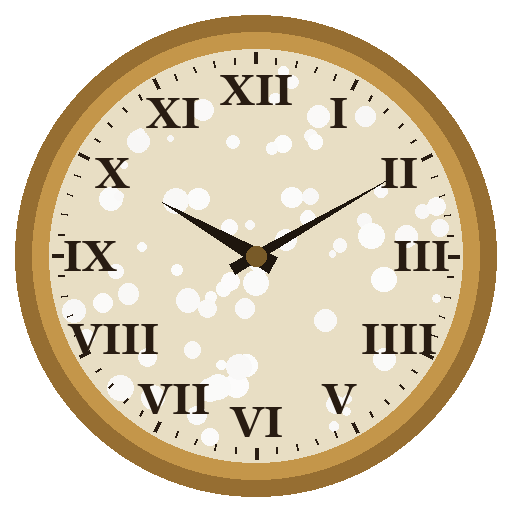
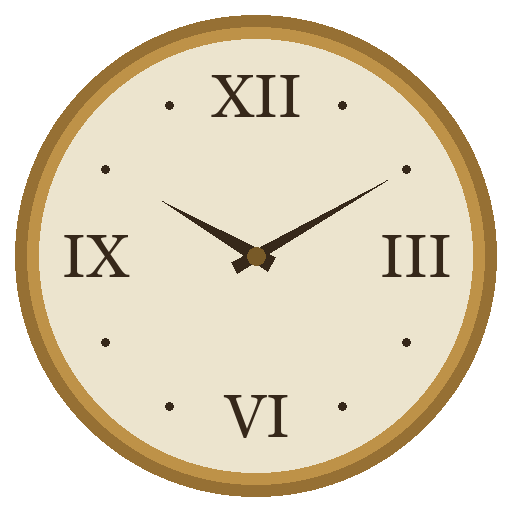
fix(cabin): 時計文字盤をシンプル化・室内炎の点滅マーカー除去・床の本を本棚へ
- 時計の文字盤をごちゃつき解消(XII/III/VI/IXの4数字＋小点＋細い針のみ、経年斑点や分目盛を撤去)
- 室内の暖炉の炎に重なっていた瞑想マーカーを炎の下へ移動(lat -13 → -26)
- 床置きの本(BookStack/OpenBook)を撤去し、本はアンティーク本棚に集約
- cabin360 / cabin-still 再レンダ

diff --git a/cabin.html b/cabin.html
@@ -1784,7 +1784,7 @@ const reduce   = matchMedia('(prefers-reduced-motion: reduce)').matches;
 
 // in-world points of interest (lon/lat in the equirect; tuned to the render)
 const MARKERS = [
-  { key:'meditate', lon:0,   lat:-13, r:5.5, jp:'炎を見つめて瞑想する', en:'gaze into the fire' },
+  { key:'meditate', lon:0,   lat:-26, r:5.5, jp:'炎を見つめて瞑想する', en:'gaze into the fire' },
   { key:'writings', lon:41,  lat:-30, r:5,   jp:'小屋の物語と、整え方', en:'the writings' },
   { key:'window',   lon:-63, lat:1,   r:6,   jp:'夜の森をのぞむ',       en:'the night forest' },
   { key:'outside',  lon:186, lat:-14, r:6,   jp:'扉から外へ出る',        en:'step out the door' },

diff --git a/_blender/eci_meditation_360.py b/_blender/eci_meditation_360.py
@@ -160,7 +160,6 @@ KIT = {
     'KB3D_ECI_PropPillow_A_Main':       ('cush',    0.0, -0.45, 0,    1.10),
     'KB3D_ECI_PropRockingChair_A_Main': ('wood',    1.55, 0.95, -125, 1.0),
     'KB3D_ECI_PropBowl_A_Main':         ('ceramic', -1.78, -0.55, 0,  1.3),   # subdued, replaces lantern
-    'KB3D_ECI_PropBookStack_D_Main':    ('book',    -1.45, -0.32, 0,  0.95),
     # old / antique pieces tucked inconspicuously around the room (back + front corners)
     'KB3D_ECI_PropBookStand_C_Main':    ('wood',    -2.15, -2.25, 18,  0.9),   # worn bookshelf, back-left
     'KB3D_ECI_PropChest_A_Main':        ('wood',     2.25, -2.10, -22, 1.0),   # antique chest, back-right
@@ -168,7 +167,6 @@ KIT = {
     'KB3D_ECI_PropChest_C_Main':        ('wood',     2.35, -1.45, -34, 0.8),   # antique chest, front-right
     # subtle meditation decor tucked into corners / shadow — nothing eye-catching
     'KB3D_ECI_PropJug_A_Main':          ('ceramic', -1.30, -0.95, 0,   0.85),  # clay jug in the left-front contemplative nook
-    'KB3D_ECI_PropOpenBook_A_Main':     ('book',    -1.02, -0.12, -14, 0.95),  # open book beside the writings pile
     'KB3D_ECI_PropAppleBasket_A_Main':  ('wood',     1.55, -1.05, 15,  0.6),   # small woven basket, right-front
     # ── antique pieces (curated from the Enchanted Interiors kit), to enrich the room ──
     'KB3D_ECI_PropTelescope_A_Main':    ('brass',    2.05, -0.20, 150, 1.0),   # brass telescope by the window — stargazing
